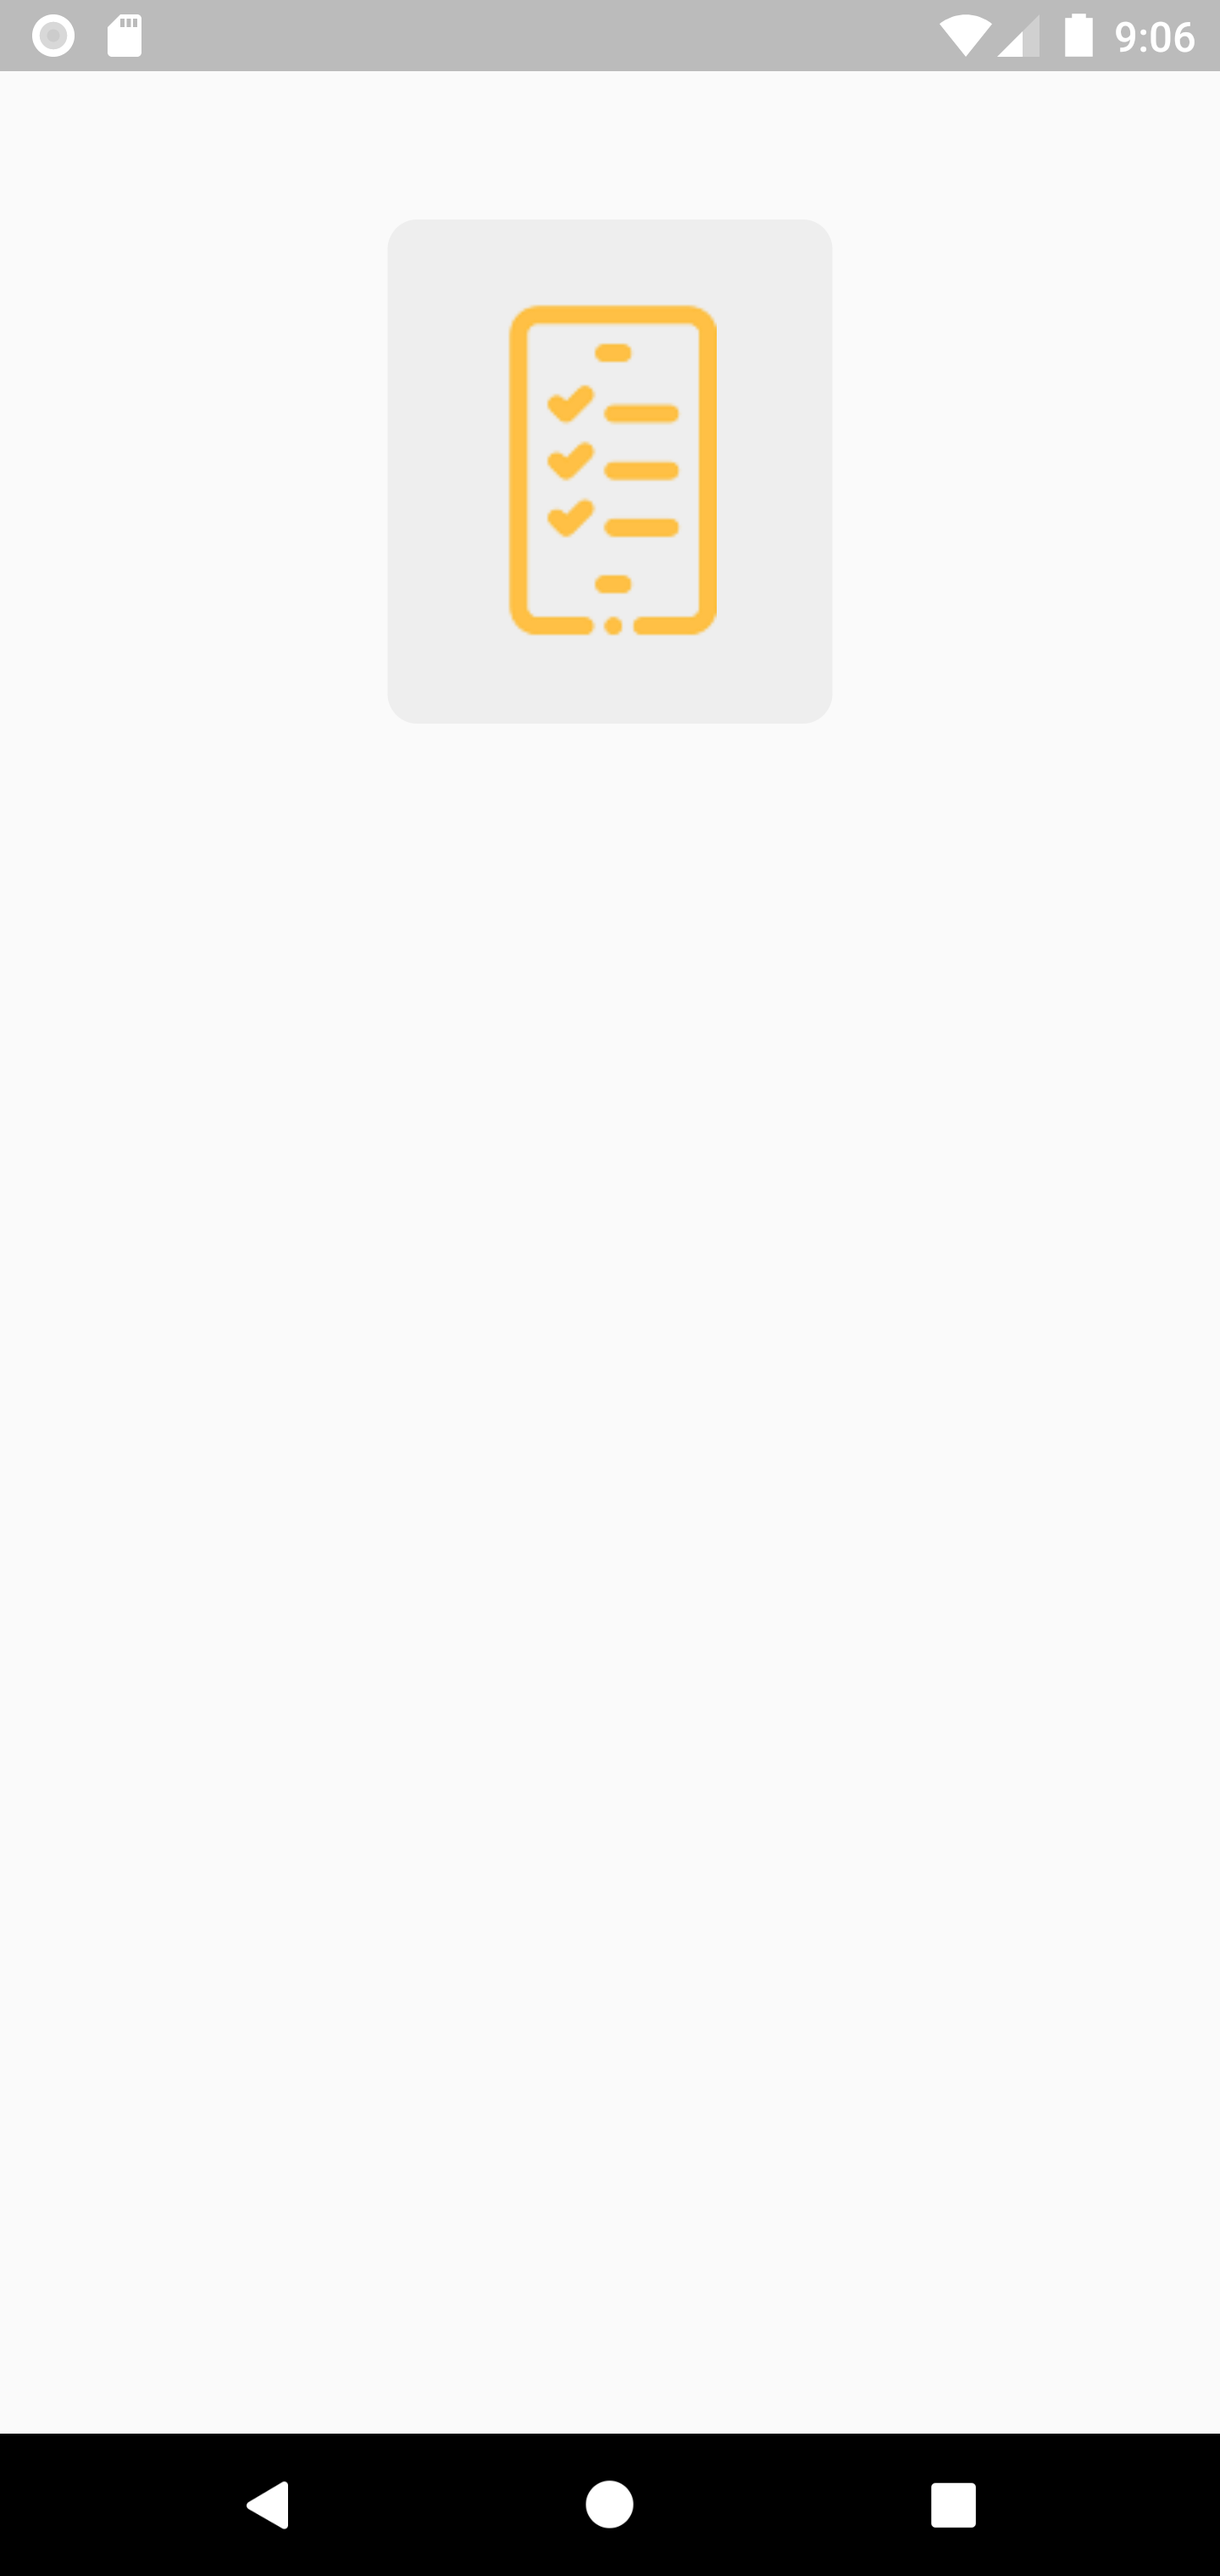
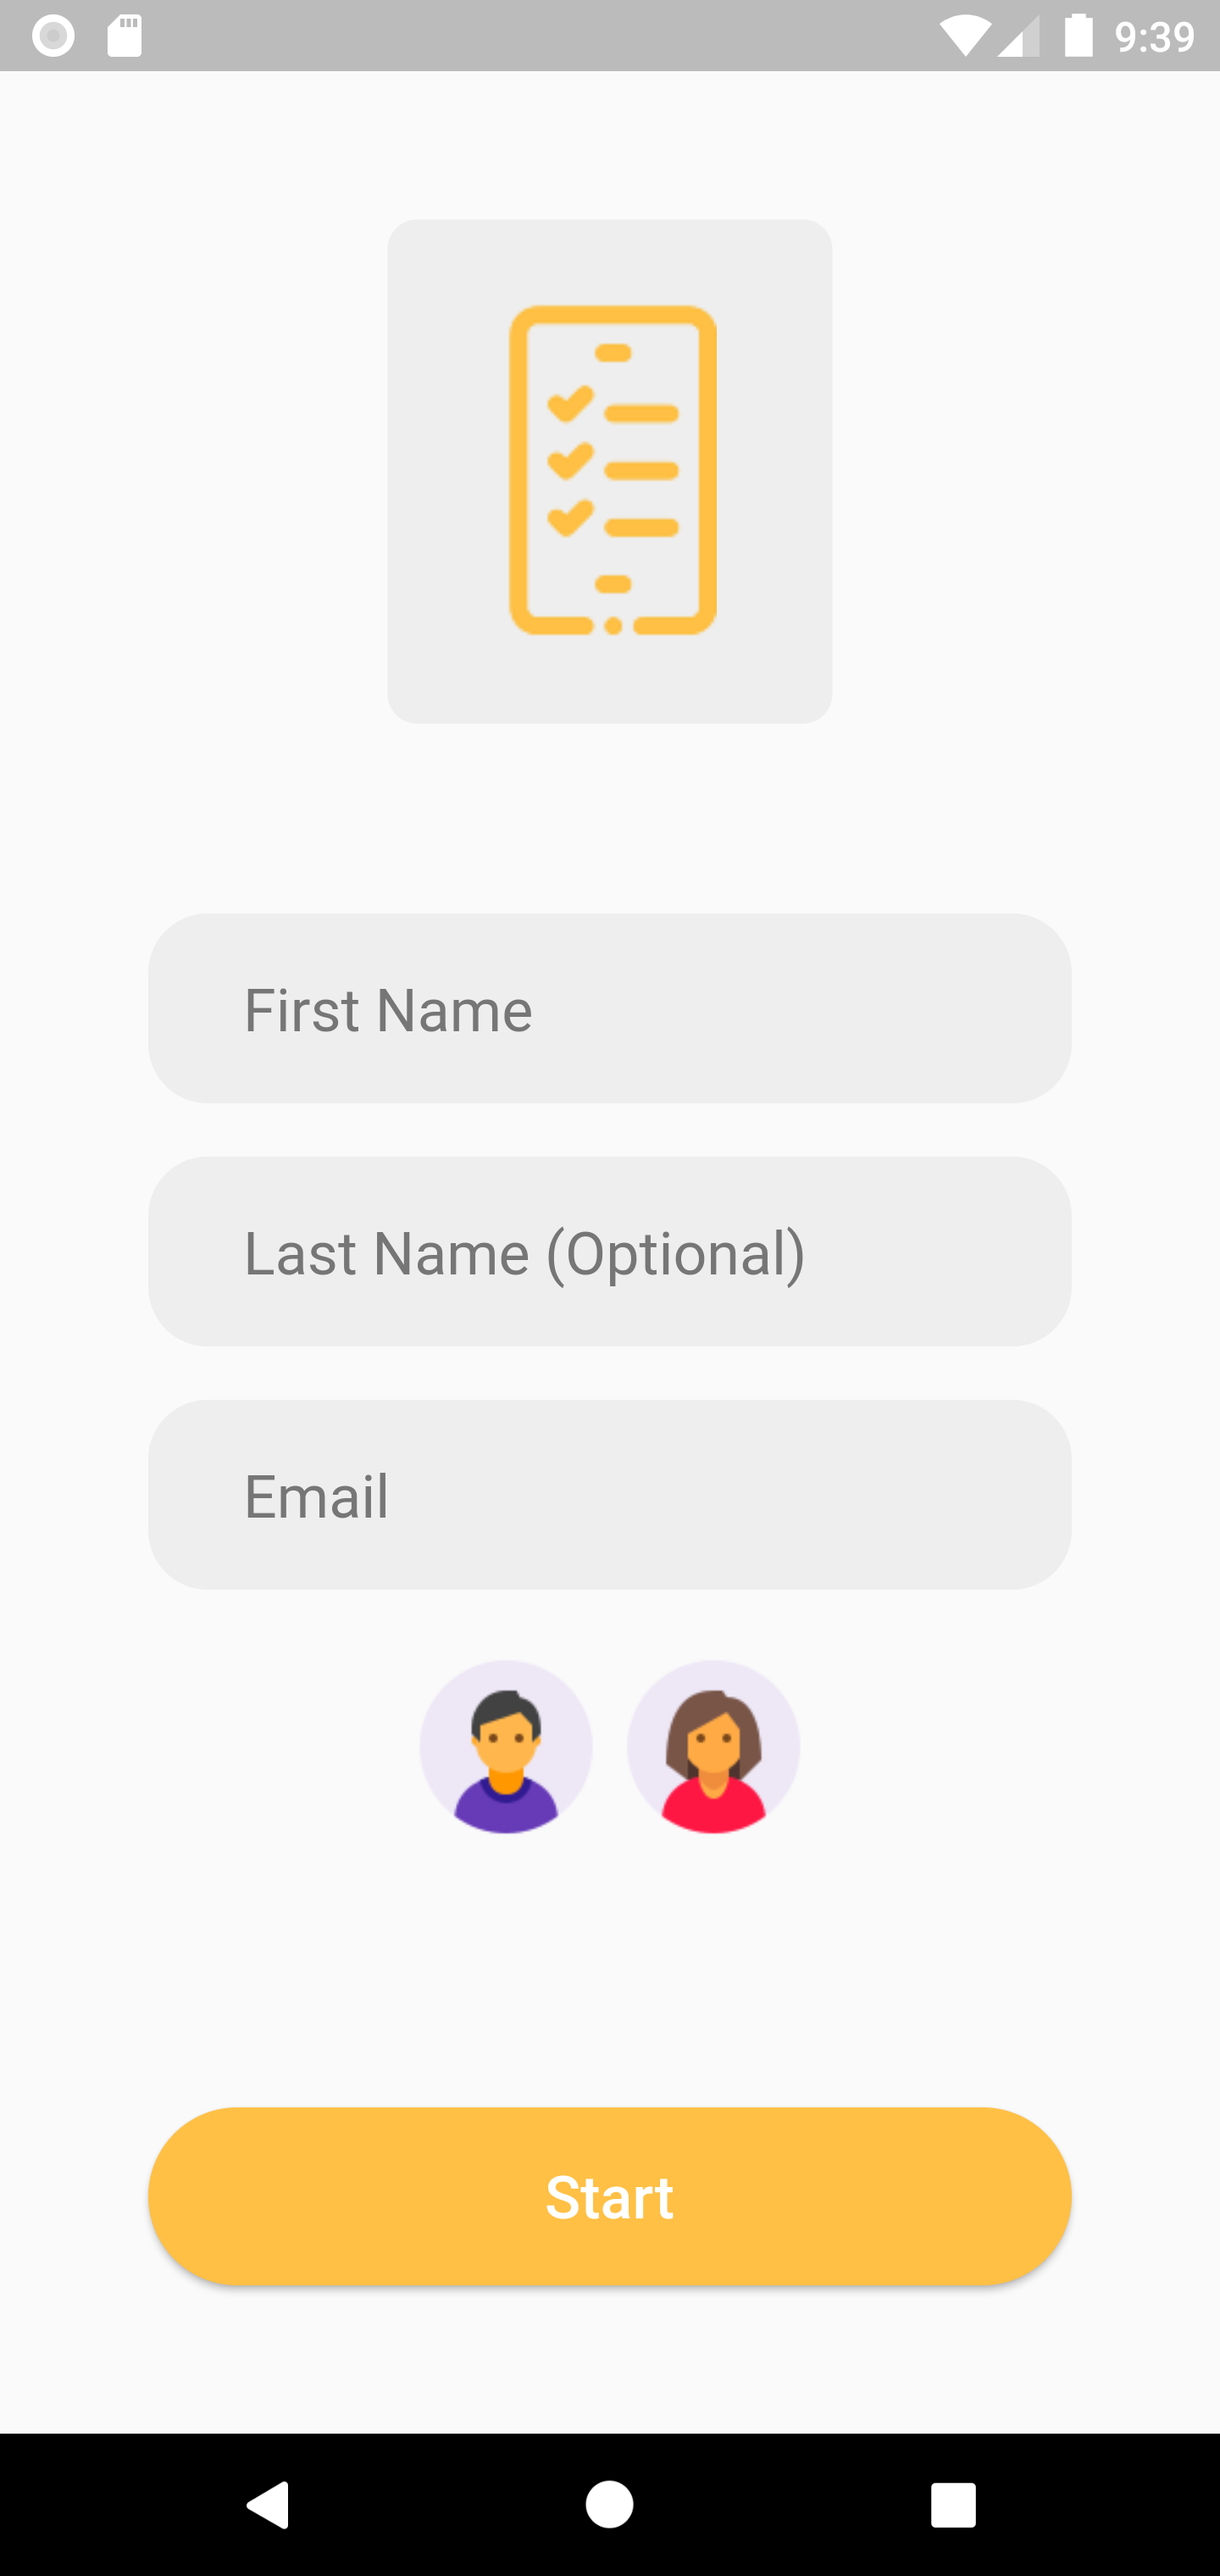
update file register.dart

diff --git a/lib/register_page.dart b/lib/register_page.dart
@@ -19,8 +19,120 @@ class RegisterPage extends StatelessWidget {
                     borderRadius: BorderRadius.circular(10),
                     color: const Color(0xffEEEEEE),
                   ),
-                  child: Image.asset('assets/icons/png/taskly_logo.png'),
-                )
+                  child: Image.asset(
+                    'assets/icons/png/taskly_logo.png',
+                  ),
+                ),
+                const SizedBox(height: 64),
+                Container(
+                  padding: const EdgeInsets.symmetric(
+                    horizontal: 32,
+                    vertical: 8,
+                  ),
+                  decoration: BoxDecoration(
+                    borderRadius: BorderRadius.circular(20),
+                    color: const Color(0xffEEEEEE),
+                  ),
+                  child: const TextField(
+                    decoration: InputDecoration(
+                      border: InputBorder.none,
+                      hintText: 'First Name',
+                      hintStyle: TextStyle(
+                        fontFamily: 'Raleway',
+                        color: Color.fromARGB(255, 118, 118, 118),
+                        fontSize: 20,
+                      ),
+                    ),
+                  ),
+                ),
+                const SizedBox(height: 18),
+                Container(
+                  padding: const EdgeInsets.symmetric(
+                    horizontal: 32,
+                    vertical: 8,
+                  ),
+                  decoration: BoxDecoration(
+                    borderRadius: BorderRadius.circular(20),
+                    color: const Color(0xffEEEEEE),
+                  ),
+                  child: const TextField(
+                    decoration: InputDecoration(
+                      border: InputBorder.none,
+                      hintText: 'Last Name (Optional)',
+                      hintStyle: TextStyle(
+                        fontFamily: 'Raleway',
+                        color: Color.fromARGB(255, 118, 118, 118),
+                        fontSize: 20,
+                      ),
+                    ),
+                  ),
+                ),
+                const SizedBox(height: 18),
+                Container(
+                  padding: const EdgeInsets.symmetric(
+                    horizontal: 32,
+                    vertical: 8,
+                  ),
+                  decoration: BoxDecoration(
+                    borderRadius: BorderRadius.circular(20),
+                    color: const Color(0xffEEEEEE),
+                  ),
+                  child: const TextField(
+                    decoration: InputDecoration(
+                      border: InputBorder.none,
+                      hintText: 'Email',
+                      hintStyle: TextStyle(
+                        fontFamily: 'Raleway',
+                        color: Color.fromARGB(255, 118, 118, 118),
+                        fontSize: 20,
+                      ),
+                    ),
+                  ),
+                ),
+                const SizedBox(height: 18),
+                Row(
+                  mainAxisAlignment: MainAxisAlignment.center,
+                  children: [
+                    Image.asset(
+                      'assets/images/male-user-1.png',
+                      height: 70,
+                    ),
+                    Image.asset(
+                      'assets/images/female-user-1.png',
+                      height: 70,
+                    ),
+                  ],
+                ),
+                const Spacer(),
+                Center(
+                  child: SizedBox(
+                    width: double.infinity,
+                    height: 60,
+                    child: ElevatedButton(
+                      style: ElevatedButton.styleFrom(
+                        primary: const Color(0xffFFC045),
+                        shape: RoundedRectangleBorder(
+                          borderRadius: BorderRadius.circular(50),
+                        ),
+                      ),
+                      onPressed: () {
+                        Navigator.pushReplacement(
+                          context,
+                          MaterialPageRoute(
+                            builder: (context) => const RegisterPage(),
+                          ),
+                        );
+                      },
+                      child: const Text(
+                        'Start',
+                        style: TextStyle(
+                          fontSize: 20,
+                          fontFamily: 'Raleway',
+                        ),
+                      ),
+                    ),
+                  ),
+                ),
               ],
             ),
           ),
